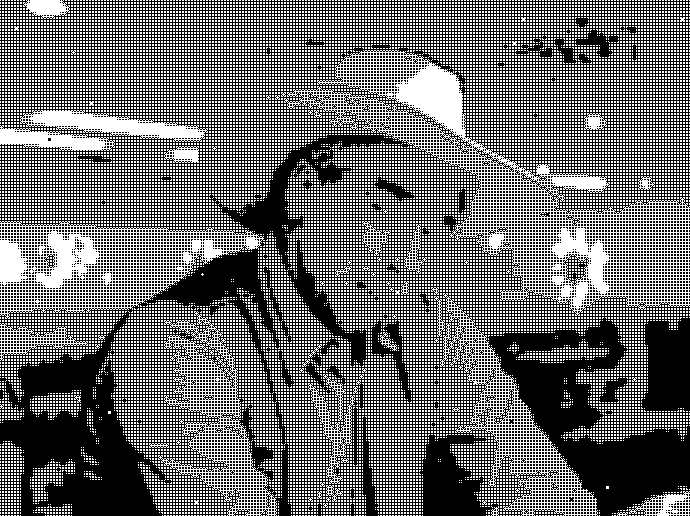
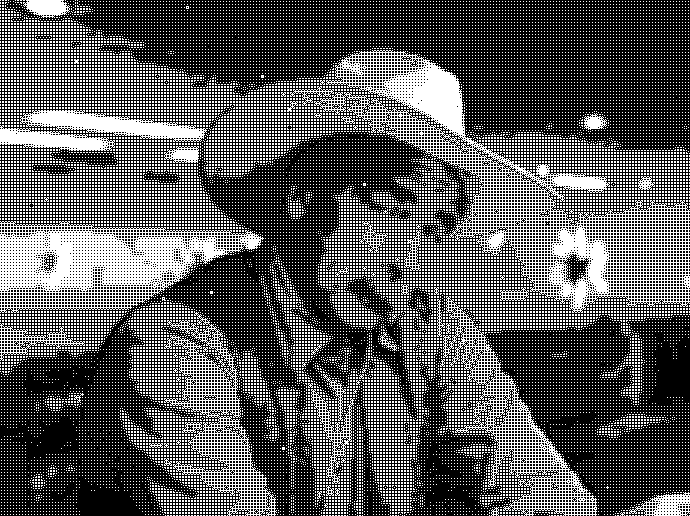
vectorized some operations

diff --git a/b_w_pixilator.py b/b_w_pixilator.py
@@ -11,38 +11,36 @@ from PIL import Image
 import random
 
 # --------------
+#   Constants
+# --------------
+
+b = 255
+w = 0
+patterns = np.array([
+    [[w,w,w],[w,w,w],[w,w,w]],        # bucket 0
+    [[w,w,w],[w,b,w],[w,w,w]],      # bucket 1
+    [[b,w,b],[w,w,w],[b,w,b]],# bucket 2
+    [[w,b,w],[b,b,b],[w,b,w]], # bucket 3
+    [[b,b,b],[b,w,b],[b,b,b]], # bucket 4
+    [[b,b,b],[b,b,b],[b,b,b]] # bucket 5
+], dtype=np.uint8)
+
+# patterns = np.array([
+#     [[w,w,w]],        # bucket 0
+#     [[w,w,w]],      # bucket 1
+#     [[b,w,b]],# bucket 2
+#     [[w,b,w]], # bucket 3
+#     [[b,b,b]], # bucket 4
+#     [[b,b,b]] # bucket 5
+# ], dtype=np.uint8)
+
+# --------------
 # Functions
 # --------------
 
-# Defining buckets for pixel expansion
-# Just making 4 for now.
-def pixel_buckets(pixel_value : int):
-    if pixel_value < 63:
-        return np.array([
-                        [0, 0, 0],
-                        [0, 0, 0],
-                        [0, 0, 0]
-], dtype=float)
-    elif pixel_value < 126:
-        return np.array([
-                        [255, 0, 255],
-                        [0, 0, 0],
-                        [255, 0, 255]
-], dtype=float)
-    elif pixel_value < 189:
-        return np.array([
-                        [0, 255, 0],
-                        [255, 255, 255],
-                        [0, 255, 0]
-], dtype=float)
-    elif pixel_value < 256:
-        return np.array([
-                        [255, 255, 255],
-                        [255, 255, 255],
-                        [255, 255, 255]
-], dtype=float)
-    else:
-        return 255
+def bucket_index(img):
+    bins = np.array([43, 85, 128, 170, 213, 256])
+    return np.digitize(img, bins)     # shape: (H, W)
 
 def pixelate(pixelation_factor: int , img: Image):
     tiny = img.resize(size=[int(img.width/pixelation_factor),int(img.height/pixelation_factor)])
@@ -71,30 +69,49 @@ def add_random_pixels(img: Image, random_factor: int):
     print('Number of random pixels: ', num_rand_pixels)
     return img
 
-def expand_pixels(img_array: np.ndarray):
-    expanded = np.zeros((img_array.shape[0]*3, img_array.shape[1]*3))
-    for i in range(img_array.shape[0]):
-        for j in range(img_array.shape[1]):
-            expanded[i*3:(i+1)*3, j*3:(j+1)*3] = pixel_buckets(img_array[i][j])
-    return expanded
+def expand_pixels(img_array):
+    img_array = img_array.astype(np.uint8)
+
+    idx = bucket_index(img_array)        # (H, W)
+    mapped = patterns[idx]               # (H, W, 3, 3)
+    H, W = img_array.shape
+
+    # reorder axes so blocks tile correctly:
+    # original:  H, W, bh, bw
+    # want:      H, bh, W, bw
+    mapped = mapped.transpose(0, 2, 1, 3)
+
+    # now flatten the first two and last two dimensions
+    out = mapped.reshape(H*3, W*3).astype(np.uint8)
+
+    return out
 
 # --------------
 # Main Code
 # --------------
 
-img = Image.open("input\\sam_elliot_big_lebowski.jpg")
+img = Image.open("input\\tony_soprano.jpg")
 img = img.convert(mode='L') # converting to greyscale
 
-# converting to a numpy array so we can set the pixel color.
-arr = np.array(img)
+# converting to a numpy array.
+# arr = np.array(img)
 
-# Performing operations
-pixelated = pixelate(2,img)  # Higher is more pixelated
-pixelated_random = add_random_pixels(pixelated,2056) # lower is more random pixels
-# pixelated_binary_random = binary_threshold(pixelated_random)
+# # Performing operations
+# pixelated = pixelate(4,img)  # Higher is more pixelated
+# pixelated_random = add_random_pixels(pixelated,4096) # lower is more random pixels
 
-expanded_pixels = expand_pixels(np.array(pixelated))
+# expanded_pixels = expand_pixels(np.array(pixelated))
+
+
+# print(np.array(pixelated).shape, np.array(pixelated).dtype)   # should be (H/4, W/4) uint8
+# print(expanded_pixels.shape, expanded_pixels.dtype)   # should be (H*3, W*3) uint8
+
+expanded_pixels = expand_pixels(img_array=np.array(img))
 expanded_pixels = Image.fromarray(np.uint8(expanded_pixels))
 
 
-expanded_pixels.save(fp='output\\sam_elliot_big_lebowski.png')
+print('expanded_pixels size: ', expanded_pixels.size)
+
+print('img size: ', img.size)
+
+expanded_pixels.save(fp='output\\tony_soprano.jpg')
